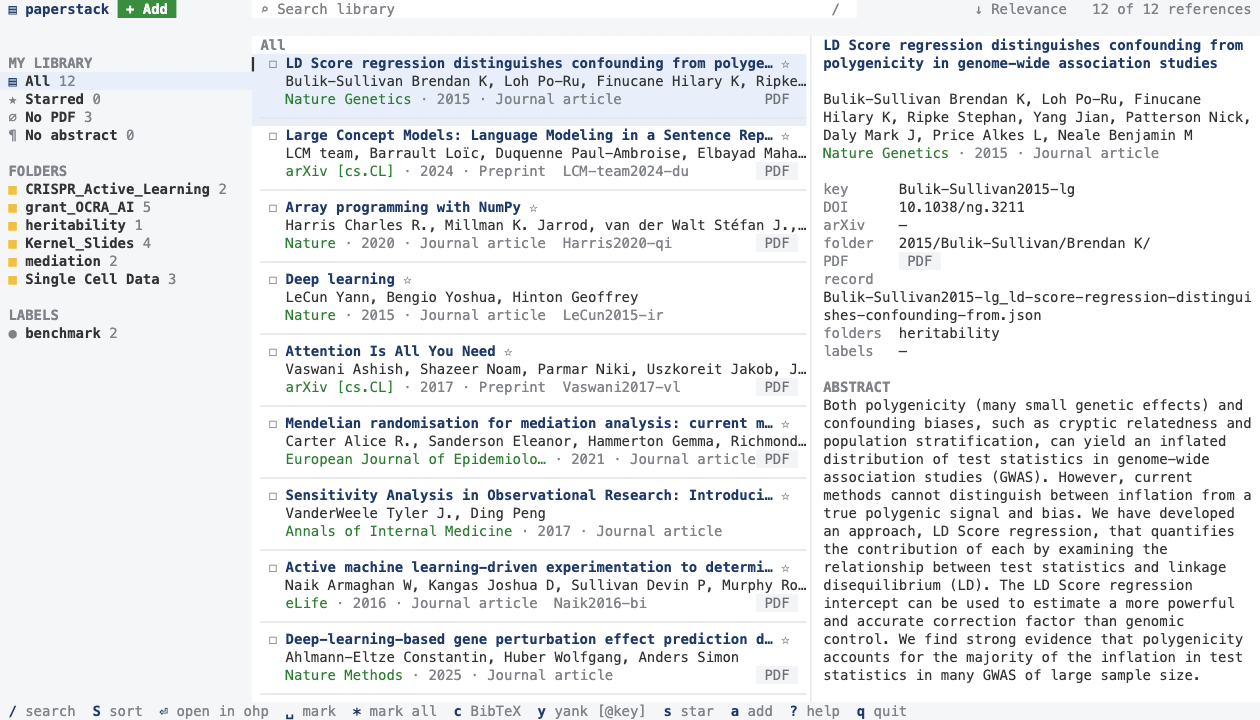
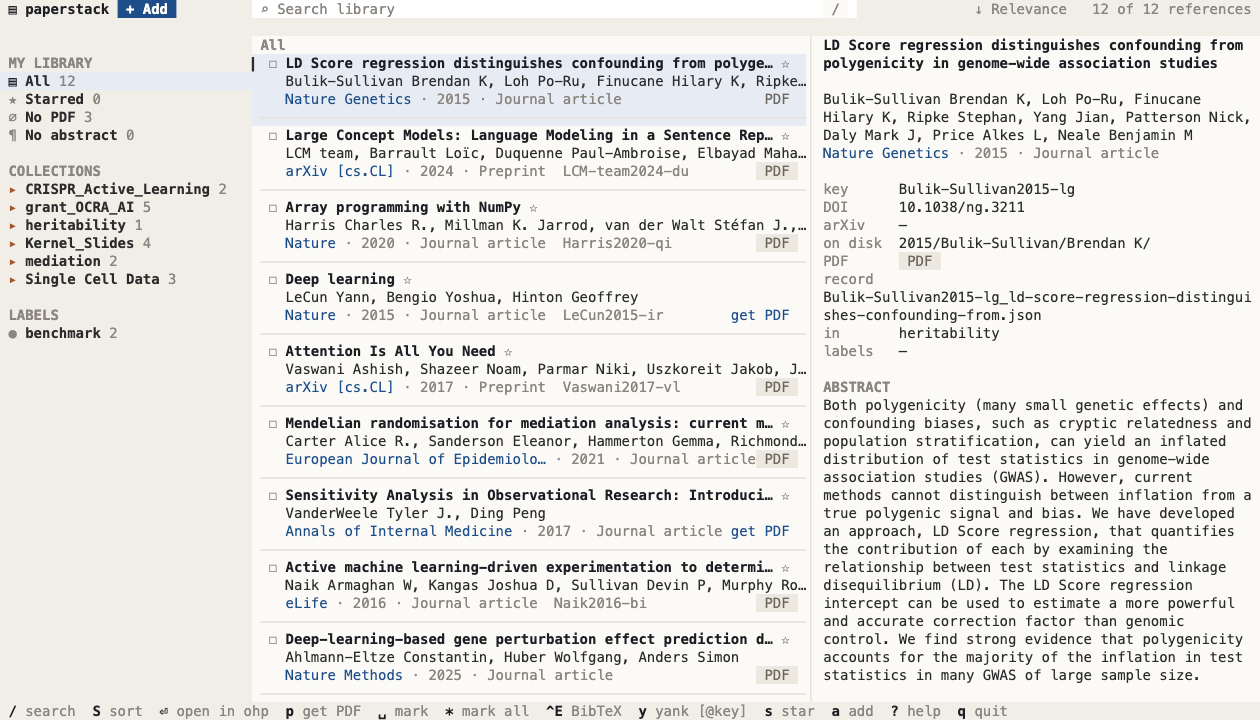
A theme of its own: warm paper, dark blue ink, collections in rust
The light theme is paper and parchment, titles near-black, venues, the
picked shelf and Add in dark blue, where they were green and blue; the
sidebar's folders are COLLECTIONS, marked in rust. collection: and
--collection name them as folder: and --folder do. In the details, the
folder on disk is "on disk", a paper's collections "in".

diff --git a/src/theme.rs b/src/theme.rs
@@ -1,6 +1,6 @@
-//! The screen's colours: `light`, a light page, as a reference manager's
-//! looks, painted whatever the terminal's own colours; or `dark`, in the
-//! terminal's own background.
+//! The screen's colours: `light`, a page of warm paper with dark blue ink
+//! and collections marked in rust, painted whatever the terminal's own
+//! colours; or `dark`, in the terminal's own background.
 
 use ratatui::style::Color;
 
@@ -29,7 +29,8 @@ pub struct Theme {
     pub row: Color,
     /// Lines between papers, and edges.
     pub rule: Color,
-    pub folder: Color,
+    /// A collection's mark on the sidebar.
+    pub collection: Color,
     pub star: Color,
     pub badge: Color,
     pub on_badge: Color,
@@ -42,40 +43,40 @@ impl Theme {
     pub fn of(name: Name) -> Theme {
         match name {
             Name::Light => Theme {
-                page: Color::Rgb(255, 255, 255),
-                side: Color::Rgb(245, 246, 248),
-                text: Color::Rgb(51, 51, 51),
-                dim: Color::Rgb(128, 131, 137),
-                title: Color::Rgb(31, 57, 104),
-                venue: Color::Rgb(46, 125, 50),
-                accent: Color::Rgb(58, 106, 178),
+                page: Color::Rgb(251, 250, 247),
+                side: Color::Rgb(241, 238, 232),
+                text: Color::Rgb(43, 43, 43),
+                dim: Color::Rgb(138, 133, 126),
+                title: Color::Rgb(28, 30, 36),
+                venue: Color::Rgb(29, 78, 137),
+                accent: Color::Rgb(29, 78, 137),
                 on_accent: Color::Rgb(255, 255, 255),
-                row: Color::Rgb(232, 239, 250),
-                rule: Color::Rgb(229, 231, 235),
-                folder: Color::Rgb(240, 192, 64),
-                star: Color::Rgb(232, 170, 30),
-                badge: Color::Rgb(243, 244, 246),
-                on_badge: Color::Rgb(110, 114, 120),
+                row: Color::Rgb(231, 236, 244),
+                rule: Color::Rgb(230, 226, 218),
+                collection: Color::Rgb(168, 84, 43),
+                star: Color::Rgb(201, 138, 18),
+                badge: Color::Rgb(236, 232, 223),
+                on_badge: Color::Rgb(107, 102, 94),
                 field: Color::Rgb(255, 255, 255),
-                add: Color::Rgb(56, 142, 60),
+                add: Color::Rgb(29, 78, 137),
             },
             Name::Dark => Theme {
                 page: Color::Reset,
                 side: Color::Reset,
                 text: Color::Reset,
                 dim: Color::DarkGray,
-                title: Color::LightBlue,
-                venue: Color::Green,
-                accent: Color::Yellow,
-                on_accent: Color::Black,
+                title: Color::Reset,
+                venue: Color::LightBlue,
+                accent: Color::Blue,
+                on_accent: Color::White,
                 row: Color::Indexed(236),
                 rule: Color::Indexed(238),
-                folder: Color::Yellow,
+                collection: Color::Indexed(173),
                 star: Color::Yellow,
                 badge: Color::Gray,
                 on_badge: Color::Black,
                 field: Color::Indexed(236),
-                add: Color::Green,
+                add: Color::Blue,
             },
         }
     }

diff --git a/src/ui.rs b/src/ui.rs
@@ -175,7 +175,7 @@ fn shelves(f: &mut Frame, app: &mut App, area: Rect) {
                 Shelf::Starred => ("★", t.dim),
                 Shelf::NoPdf => ("∅", t.dim),
                 Shelf::NoAbstract => ("¶", t.dim),
-                Shelf::Folder(_) => ("■", t.folder),
+                Shelf::Folder(_) => ("▸", t.collection),
                 Shelf::Label(_) => ("●", t.dim),
             };
             let room = (area.width as usize).saturating_sub(n.to_string().len() + 6);
@@ -431,7 +431,7 @@ fn details(f: &mut Frame, app: &App, area: Rect) {
         field("key", r.key.clone()),
         field("DOI", r.doi().map_or_else(none, str::to_string)),
         field("arXiv", m.arxiv.clone().unwrap_or_else(none)),
-        field("folder", folder),
+        field("on disk", folder),
         Line::from(vec![
             Span::styled(format!("{:<9}", "PDF"), dim),
             if h.has_pdf {
@@ -441,7 +441,7 @@ fn details(f: &mut Frame, app: &App, area: Rect) {
             },
         ]),
         field("record", file),
-        field("folders", join(&m.folders)),
+        field("in", join(&m.folders)),
         field("labels", join(&m.labels)),
         Line::raw(""),
         Line::styled("ABSTRACT", dim.add_modifier(Modifier::BOLD)),

diff --git a/src/main.rs b/src/main.rs
@@ -92,8 +92,8 @@ enum Command {
     Add {
         #[arg(required = true)]
         what: Vec<String>,
-        /// Put them in this folder too
-        #[arg(long)]
+        /// Put them in this collection too
+        #[arg(long, visible_alias = "collection")]
         folder: Vec<String>,
         #[arg(long)]
         label: Vec<String>,
@@ -143,8 +143,8 @@ enum Command {
         /// Take a PDF filed out of the folders given too, as out of inbox/
         #[arg(long)]
         take: bool,
-        /// Put what is filed in this folder of the library too
-        #[arg(long)]
+        /// Put what is filed in this collection too
+        #[arg(long, visible_alias = "collection")]
         folder: Vec<String>,
     },
     /// Watch as `watch` does, and take papers from the browser extension
@@ -157,7 +157,7 @@ enum Command {
         watch: Vec<PathBuf>,
         #[arg(long)]
         take: bool,
-        #[arg(long)]
+        #[arg(long, visible_alias = "collection")]
         folder: Vec<String>,
         /// Other extensions that may ask, besides paperstack's own: a Chrome
         /// extension's id, or an origin whole, as moz-extension://ID

diff --git a/src/agents.rs b/src/agents.rs
@@ -17,7 +17,7 @@ records and the PDFs together. Reading them is fine.
 ```sh
 paperstack find 'perturbation "linear baseline"' --json      # best match first
 paperstack find 'author:Huber year:2020..2026 has:pdf' --json
-paperstack find 'folder:"Single Cell Data" -label:benchmark' --sort year --json
+paperstack find 'collection:"Single Cell Data" -label:benchmark' --sort year --json
 paperstack get Ahlmann-Eltze2025-pb --json                   # one paper, by key
 find . -name 'Ahlmann-Eltze2025-pb_*'                        # its files
 ```
@@ -25,7 +25,7 @@ find . -name 'Ahlmann-Eltze2025-pb_*'                        # its files
 Words and "phrases" are searched in the title, abstract, authors, venue,
 keywords, key and identifiers; a word matches the words it starts. Fields:
 `title:` `abstract:` `author:` `venue:` `year:2020..2026` `folder:` `label:`
-`key:` `doi:` `has:pdf` `has:abstract` `has:doi` `is:starred`; `-` before
+`key:` `doi:` `collection:` `has:pdf` `has:abstract` `has:doi` `is:starred`; `-` before
 any of them leaves out what it matches. `--sort relevance|year|added|author|title`,
 `--reverse`, `--limit N`.
 

diff --git a/src/app.rs b/src/app.rs
@@ -243,7 +243,7 @@ impl App {
             (Shelf::Starred, starred),
             (Shelf::NoPdf, no_pdf),
             (Shelf::NoAbstract, no_abstract),
-            (Shelf::Heading("FOLDERS"), 0),
+            (Shelf::Heading("COLLECTIONS"), 0),
         ];
         shelves.extend(folders.into_iter().map(|(f, n)| (Shelf::Folder(f), n)));
         shelves.push((Shelf::Heading("LABELS"), 0));

diff --git a/src/query.rs b/src/query.rs
@@ -54,7 +54,7 @@ impl Field {
             "author" | "au" => Field::Author,
             "venue" | "journal" => Field::Venue,
             "year" | "y" => Field::Year,
-            "folder" | "in" => Field::Folder,
+            "folder" | "collection" | "in" => Field::Folder,
             "label" | "tag" => Field::Label,
             "key" => Field::Key,
             "doi" => Field::Doi,

diff --git a/README.md b/README.md
@@ -29,7 +29,7 @@ RustCrypto's algorithms, which are not yet audited.
 paperstack init --demo                 # a library at ~/Dropbox/paperstack, with papers to try
 paperstack                             # browse it
 paperstack find perturbation 'author:Huber'
-paperstack find 'folder:"Single Cell Data" -label:benchmark' --sort year --bib > refs.bib
+paperstack find 'collection:"Single Cell Data" -label:benchmark' --sort year --bib > refs.bib
 paperstack get Ahlmann-Eltze2025-pb --json
 ```
 
@@ -54,7 +54,7 @@ looked for beside it, in Downloads and in Google Drive. Nothing is fetched,
 so 6,000 references take a second or so.
 
 The library's citation keys are kept as they are, so what cites them still
-does. Its folders, subfolders as `Research/ML/NLP`, become paperstack's;
+does. Its folders, subfolders as `Research/ML/NLP`, become paperstack's collections;
 its labels, labels; papers in its trash are left. A PDF is found by the
 name the export gives it, in the unzipped folder, accents however the zip
 stored them, or by its key. A paper already here, by its key, DOI or title,
@@ -67,7 +67,7 @@ alias, so either key finds it; importing again adds nothing twice.
 paperstack add 10.1038/s41586-020-2649-2            # a DOI
 paperstack add arXiv:2412.08821 'PMID: 28693043'    # an arXiv id, a PMID, a PMCID
 paperstack add https://onlinelibrary.wiley.com/doi/full/10.1002/sim.7400
-paperstack add ~/Downloads/paper.pdf --folder mediation
+paperstack add ~/Downloads/paper.pdf --collection mediation
 paperstack add 'Array programming with NumPy'       # a title, if just one paper has it
 paperstack inbox                                    # file what was saved to inbox/
 echo 10.7554/eLife.10047 | paperstack add -         # one a line, as an agent would
@@ -192,14 +192,14 @@ launchctl load ~/Library/LaunchAgents/com.github.ypark.paperstack.plist
 The TUI's `/` and `paperstack find` read the same query:
 
 ```
-perturbation "linear baseline" author:Huber year:2020..2026 folder:"Single Cell Data" -label:benchmark has:pdf
+perturbation "linear baseline" author:Huber year:2020..2026 collection:"Single Cell Data" -label:benchmark has:pdf
 ```
 
 Words, and phrases in quotes, are looked for in the title, abstract,
 authors, venue, keywords, key and DOI, title first; a word matches the words
 it starts, and accents need not be typed. `title:`, `abstract:`, `author:`
 and `venue:` look in one of those; `year:` takes a year or a range,
-`2020..2026`, `2020..` or `..2020`; `folder:`, `label:`, `key:` and `doi:`
+`2020..2026`, `2020..` or `..2020`; `collection:` (or `folder:`), `label:`, `key:` and `doi:`
 match whole; `has:pdf`, `has:abstract`, `has:doi` and `is:starred` say what a
 paper has. A `-` before any of them leaves out what it matches.
 
